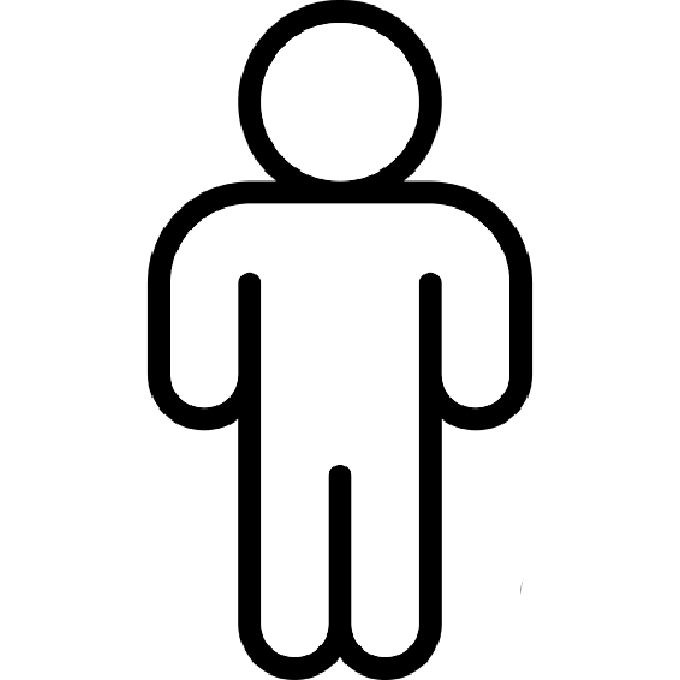
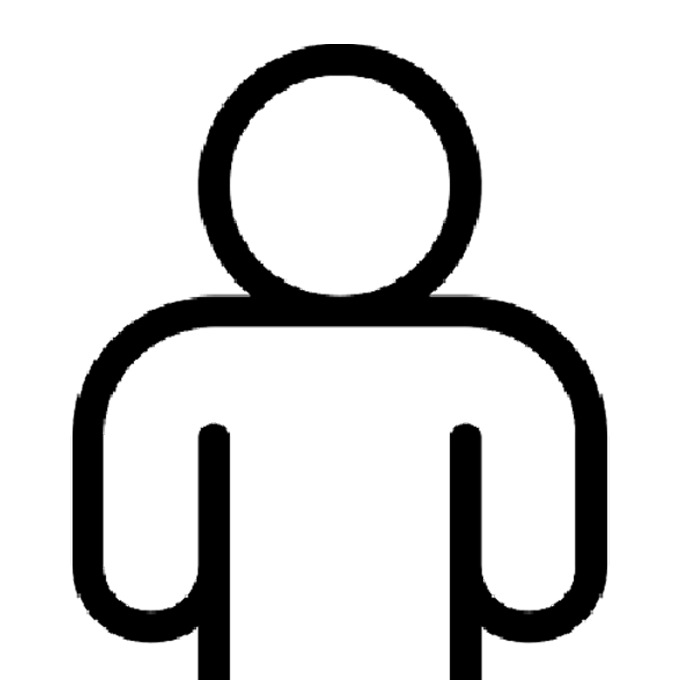
[feat] new character and module: King - Shop

Changed region(s): [[0.0926, 0.0, 0.8956, 1.0]]

diff --git a/src/components/CharacterImg/CharacterImg.jsx b/src/components/CharacterImg/CharacterImg.jsx
@@ -1,21 +1,22 @@
 // images
-import jellishImg from '../../assets/img/characters/jellyfish.png';
-import rockImg from '../../assets/img/characters/rock.png';
-import vampireImg from '../../assets/img/characters/vampire.png';
-import bambrikImg from '../../assets/img/characters/bambrik.png';
-import honliaImg from '../../assets/img/characters/honlia.png';
-import emptyImg from '../../assets/img/characters/empty.png';
-import amoebaImg from '../../assets/img/characters/amoeba.png';
+import jellishImg from "../../assets/img/characters/jellyfish.png";
+import rockImg from "../../assets/img/characters/rock.png";
+import vampireImg from "../../assets/img/characters/vampire.png";
+import bambrikImg from "../../assets/img/characters/bambrik.png";
+import honliaImg from "../../assets/img/characters/honlia.png";
+import emptyImg from "../../assets/img/characters/empty.png";
+import amoebaImg from "../../assets/img/characters/amoeba.png";
+import chessKingImg from "../../assets/img/characters/chess_king.png";
 
 export default function CharacterImg({ characterKey, className = "" }) {
   let src = null;
-  
-  switch(characterKey) {
+
+  switch (characterKey) {
     case "jellish": {
       src = jellishImg;
       break;
     }
-    
+
     case "rock": {
       src = rockImg;
       break;
@@ -41,10 +42,15 @@ export default function CharacterImg({ characterKey, className = "" }) {
       break;
     }
 
+    case "chess_king": {
+      src = chessKingImg;
+      break;
+    }
+
     default: {
       src = emptyImg;
     }
   }
 
-  return <img src={src} alt="character" className={className} />
+  return <img src={src} alt="character" className={className} />;
 }

diff --git a/src/components/Board/styles.module.css b/src/components/Board/styles.module.css
@@ -1,6 +1,6 @@
 .root {
   display: grid;
-  grid-template-columns: repeat(8, 1fr);
+  grid-template-columns: repeat(5, 1fr);
   gap: 1px;
   width: fit-content;
   border: 2px solid gray;
